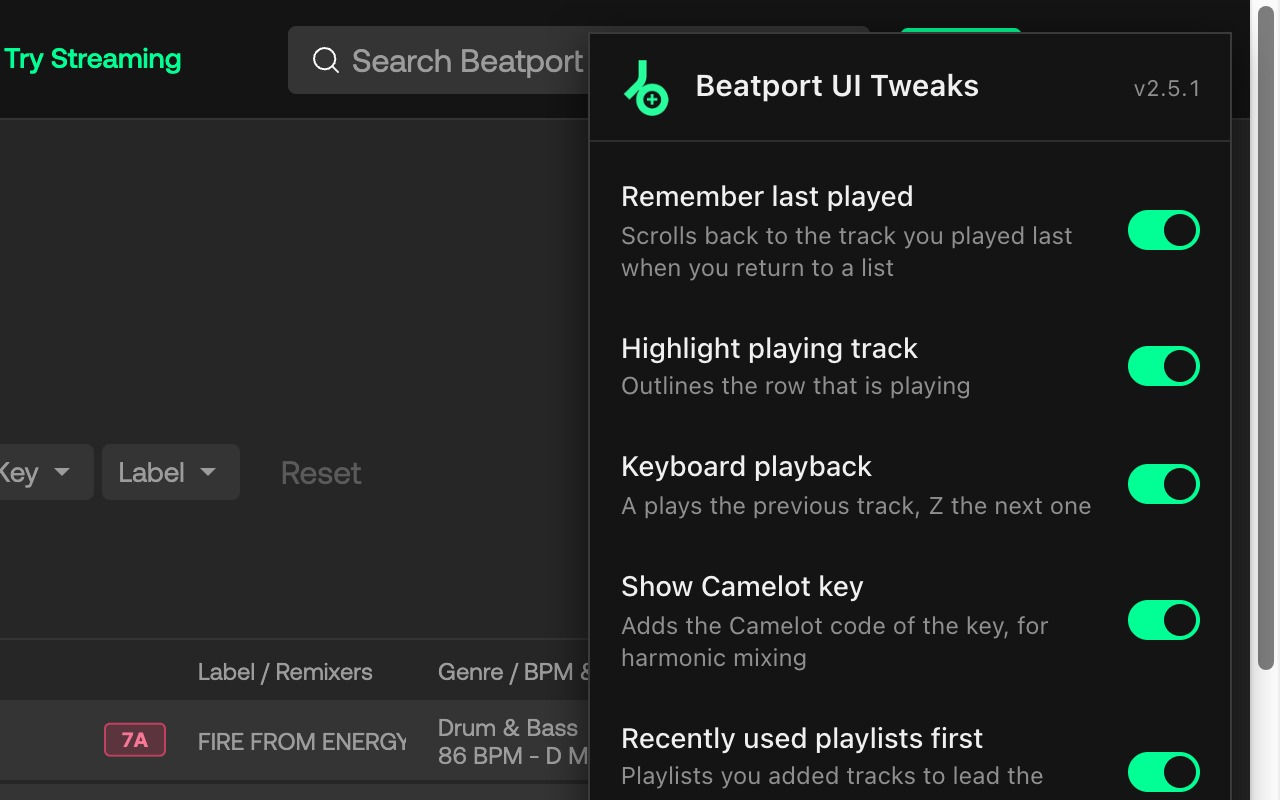
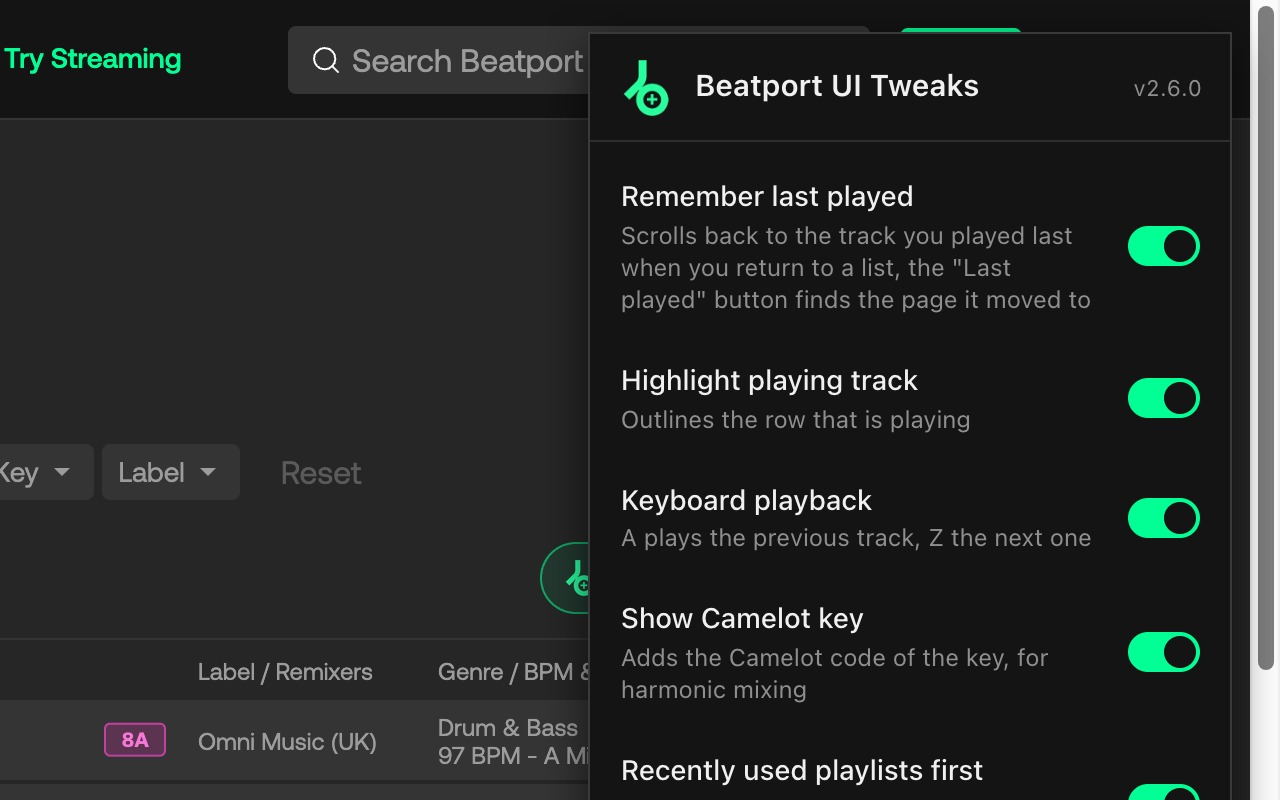
chore: store screenshots for 2.6.0, live check covers the "Last played" button
The daily live check now runs on a tracks list with a pager: pill in
both pager rows, active after a play, and from page 2 the search has
to land back on the played track. A Cloudflare challenge on the second
page load only logs a warning, the markup checks before it still count.
A third store screenshot shows the pill, in page-screenshot it sits
under the popup.

diff --git a/e2e/live.spec.ts b/e2e/live.spec.ts
@@ -2,9 +2,11 @@ import { test, expect, featureIds } from './fixtures'
 
 // Runs headed (see the "live" project): Cloudflare serves its challenge page to headless browsers.
 // Scheduled daily by .github/workflows/live-check.yml, not part of `pnpm test`.
-const url = 'https://www.beatport.com/genre/techno-peak-time-driving/6/top-100'
+// A tracks list with a pager, so the "Last played" button is covered too. The playlist features need
+// a logged-in account and stay out of this check.
+const url = 'https://www.beatport.com/genre/techno-peak-time-driving/6/tracks?per_page=150'
 
-test('the extension still works on the live Beatport top 100', async ({ page, worker }, testInfo) => {
+test('the extension still works on a live Beatport tracks list', async ({ page, worker }, testInfo) => {
   await page.goto(url, { waitUntil: 'domcontentloaded' })
   const rows = page.locator('.row')
   const rendered = await rows.first().waitFor({ timeout: 45_000 }).then(() => true, () => false)
@@ -39,7 +41,7 @@ test('the extension still works on the live Beatport top 100', async ({ page, wo
   await expect(second, 'extension highlights the playing row').toHaveClass(/bp-ui-tweak-last-played__active/, { timeout: 15_000 })
   await expect
     .poll(() => worker.evaluate(() => chrome.storage.sync.get('beatport-last-played')), { message: 'last played stored' })
-    .toEqual({ 'beatport-last-played': { 'techno-peak-time-driving': { 'top-100': trackId } } })
+    .toEqual({ 'beatport-last-played': { 'techno-peak-time-driving': { tracks: trackId } } })
 
   await expect
     .poll(() => page.locator('.cell.title[data-bp-camelot]').count(), { message: 'Camelot codes on the title column' })
@@ -48,4 +50,24 @@ test('the extension still works on the live Beatport top 100', async ({ page, wo
 
   await page.keyboard.press('z')
   await expect(trackRows.nth(2), 'z plays the next track').toHaveClass(/current/, { timeout: 15_000 })
+  const lastPlayedId = await trackRows.nth(2).locator('.cell.title a[href*="/track/"]').first().evaluate(a => a.href.split('/').pop())
+
+  const pills = page.locator('.bp-ui-tweak-last-played-button')
+  await expect(pills, '"Last played" pill in both pager rows').toHaveCount(2)
+  await expect(pills.first(), 'pill active once something was played').toHaveAttribute('data-state', '')
+
+  // the search: from page 2 the pill has to bring us back to the played track on page 1
+  await page.goto(url.replace('?', '?page=2&'), { waitUntil: 'domcontentloaded' })
+  if (!(await rows.first().waitFor({ timeout: 45_000 }).then(() => true, () => false))) {
+    console.log('::warning::Live check: Cloudflare challenged the second page load, the "Last played" search was not verified')
+    return
+  }
+  await pills.first().waitFor({ timeout: 15_000 })
+  await pills.first().click()
+  await page.waitForURL(/[?&]page=1&per_page=150/, { timeout: 60_000 })
+  if (!(await rows.first().waitFor({ timeout: 45_000 }).then(() => true, () => false))) {
+    console.log('::warning::Live check: Cloudflare challenged the page the "Last played" search landed on')
+    return
+  }
+  await expect(page.locator(`.row:has(.cell.title a[href$="/${lastPlayedId}"])`), 'landed on the played track').toHaveClass(/bp-ui-tweak-last-played__active/, { timeout: 15_000 })
 })

diff --git a/README.md b/README.md
@@ -17,6 +17,8 @@ A web extension that adds some useful feature to [beatport.com](https://www.beat
 ![Page screenshot](store-assets/page-screenshot.jpg)
 ### Playlist filter in the add-to-playlist dialog
 ![Playlist filter screenshot](store-assets/playlist-filter-screenshot.jpg)
+### "Last played" button next to the pager
+![Last played screenshot](store-assets/last-played-screenshot.jpg)
 
 ## Installation
 
